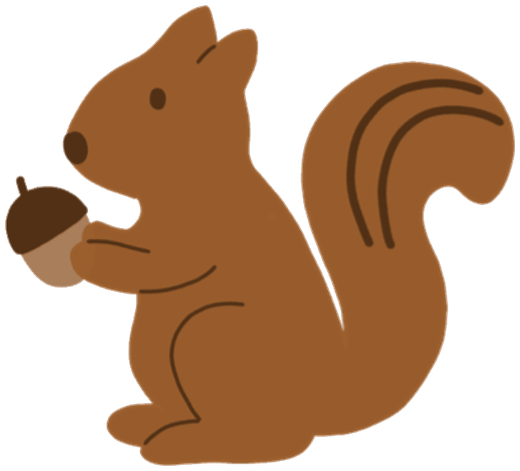
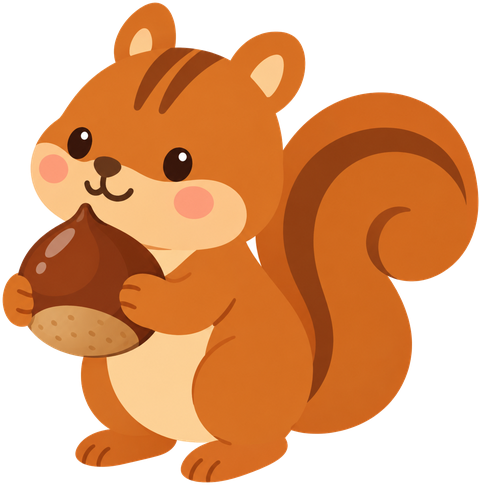
다람쥐 이미지 교체(크기 축소), 앱 색감을 밝은 크림 톤으로 복원

diff --git a/public/style.css b/public/style.css
@@ -1,18 +1,18 @@
 :root {
-  --bg: #1d1610;
-  --bg-2: #2a1f15;
-  --card: #2f2318;
-  --row: #3b2c1e;
-  --ink: #f8ecd9;
-  --muted: #bda78d;
-  --line: #4a3826;
-  --accent: #f2b84b;        /* 노란 도토리 빛 */
-  --accent-2: #d9822b;      /* 갈색 도토리 */
-  --on-accent: #2a1a0a;
-  --leaf: #6fbf73;
-  --danger: #f08a80;
-  --shadow: 0 14px 34px rgba(0, 0, 0, 0.35);
-  --glow: 0 6px 20px rgba(242, 184, 75, 0.35);
+  --bg: #faf6ef;
+  --card: #ffffff;
+  --row: #fbf1e2;
+  --field: #fbf6ec;
+  --ink: #3a2f27;
+  --muted: #6f6254;
+  --line: #ece3d6;
+  --accent: #c9752e;        /* 도토리 갈색 (채움) */
+  --accent-ink: #a85f1f;    /* 도토리 갈색 (글자) */
+  --accent-soft: #f6e7d6;
+  --leaf: #4c9a5a;
+  --danger: #b83b36;
+  --shadow: 0 6px 22px rgba(120, 90, 50, 0.10);
+  --glow: 0 6px 16px rgba(201, 117, 46, 0.30);
 }
 
 * { box-sizing: border-box; }
@@ -20,7 +20,7 @@
 body {
   margin: 0;
   font-family: "Pretendard", "Apple SD Gothic Neo", "Malgun Gothic", system-ui, sans-serif;
-  background: radial-gradient(1100px 600px at 80% -10%, #3a2a1a 0%, var(--bg) 60%) fixed, var(--bg);
+  background: var(--bg);
   color: var(--ink);
   line-height: 1.5;
 }
@@ -43,7 +43,8 @@ main {
 
 .card {
   background: var(--card);
-  border-radius: 28px;
+  border: 1px solid var(--line);
+  border-radius: 24px;
   padding: 22px;
   box-shadow: var(--shadow);
 }
@@ -55,19 +56,19 @@ main {
 
 /* ---------- 정원 ---------- */
 .garden { text-align: center; position: sticky; top: 18px; }
-.garden h2 { margin: 0 0 12px; font-size: 20px; color: var(--accent); }
+.garden h2 { margin: 0 0 12px; font-size: 20px; color: var(--accent-ink); }
 .scene {
   position: relative;
-  background: linear-gradient(#3a2d3f 0%, #5a3f3a 58%, #3f3123 58%, #3f3123 100%);
-  border-radius: 22px;
+  background: linear-gradient(#eaf6ff 0%, #eaf6ff 60%, #f3ead9 60%, #f3ead9 100%);
+  border-radius: 18px;
   overflow: hidden;
 }
 .scene svg { display: block; width: 100%; height: auto; }
 .squirrel {
   position: absolute;
-  right: 10px;
+  right: 12px;
   bottom: 6px;
-  width: 40%;
+  width: 32%;
   height: auto;
   transform-origin: 50% 100%;
   animation: bob 3.2s ease-in-out infinite;
@@ -81,93 +82,86 @@ main {
 }
 
 .acorn-count { margin-top: 16px; font-size: 15px; }
-.acorn-count strong { color: var(--accent); font-size: 20px; }
+.acorn-count strong { color: var(--accent-ink); font-size: 20px; }
 .acorn-count .month { color: var(--muted); font-size: 12px; }
 .acorns { font-size: 18px; margin: 8px 0; word-break: break-all; line-height: 1.7; }
 .progress .bar {
-  height: 8px; background: #43321f;
+  height: 8px; background: var(--accent-soft);
   border-radius: 99px; overflow: hidden; margin: 10px 0 8px;
 }
-.progress .fill {
-  height: 100%; border-radius: 99px;
-  background: linear-gradient(90deg, var(--accent-2), var(--accent));
-  box-shadow: 0 0 10px rgba(242, 184, 75, 0.5);
-  transition: width .4s;
-}
+.progress .fill { height: 100%; border-radius: 99px; background: var(--leaf); transition: width .4s; }
 .progress-label { font-size: 13px; color: var(--muted); }
 .today-status {
   margin-top: 14px; font-size: 13px; padding: 10px 14px;
-  background: var(--row); border-radius: 16px; color: var(--ink);
+  background: var(--accent-soft); border-radius: 14px; color: var(--ink);
 }
 
 /* ---------- 할 일 ---------- */
 #add-form input {
-  width: 100%; padding: 13px 16px; border: 1px solid transparent;
-  border-radius: 18px; font-size: 14px; background: var(--row); color: var(--ink);
+  width: 100%; padding: 13px 16px; border: 1px solid var(--line);
+  border-radius: 16px; font-size: 14px; background: var(--field); color: var(--ink);
   font-family: inherit;
 }
 #add-form input::placeholder { color: var(--muted); }
 #add-form input:focus { outline: none; border-color: var(--accent); }
-#add-form input[type="date"] { color-scheme: dark; }
 #add-form #title { margin-bottom: 10px; font-size: 16px; }
 #add-form .row { display: flex; gap: 8px; align-items: center; }
-#add-form .row input[type="date"] { flex: 0 1 150px; }
 #add-form .row input { flex: 1; min-width: 0; }
+#add-form .row input[type="date"] { flex: 0 1 150px; }
 #add-form .add-btn {
   flex: 0 0 auto; width: 48px; height: 48px; padding: 0; border: none; border-radius: 50%;
-  background: linear-gradient(135deg, var(--accent), var(--accent-2)); color: var(--on-accent);
+  background: var(--accent); color: #ffffff;
   font-size: 26px; line-height: 1; font-weight: 600; cursor: pointer; box-shadow: var(--glow);
 }
-#add-form .add-btn:hover { filter: brightness(1.08); }
+#add-form .add-btn:hover { filter: brightness(1.06); }
 #add-form .add-btn:focus-visible, .filters button:focus-visible, .todo button:focus-visible {
   outline: 2px solid var(--accent); outline-offset: 2px;
 }
 
 .filters { display: flex; gap: 8px; margin: 20px 0 14px; }
 .filters button {
-  padding: 8px 16px; border: none; background: var(--row);
+  padding: 8px 16px; border: none; background: #f3ebde;
   border-radius: 99px; cursor: pointer; font-size: 13px; color: var(--muted); font-family: inherit;
 }
-.filters button.active { background: var(--accent); color: var(--on-accent); font-weight: 600; }
+.filters button.active { background: var(--accent); color: #ffffff; font-weight: 700; }
 
 #todo-list { list-style: none; margin: 0; padding: 0; display: flex; flex-direction: column; gap: 10px; }
 .todo {
   display: flex; align-items: center; gap: 10px; flex-wrap: wrap;
   padding: 14px 16px; background: var(--row); border-radius: 20px;
-  box-shadow: 0 4px 14px rgba(0, 0, 0, 0.22);
 }
 .todo .check { display: flex; align-items: center; gap: 12px; flex: 1; min-width: 160px; cursor: pointer; }
 .todo .check input {
   appearance: none; -webkit-appearance: none; flex: 0 0 auto;
   width: 24px; height: 24px; margin: 0; cursor: pointer;
-  border: 2px solid var(--accent-2); border-radius: 50%; background: transparent;
+  border: 2px solid var(--accent); border-radius: 50%; background: transparent;
   display: grid; place-content: center;
 }
 .todo .check input::after {
-  content: "✓"; font-size: 14px; font-weight: 700; color: var(--on-accent);
+  content: "✓"; font-size: 14px; font-weight: 700; color: #ffffff;
   transform: scale(0); transition: transform .15s;
 }
-.todo .check input:checked { background: var(--accent); border-color: var(--accent); }
+.todo .check input:checked { background: var(--accent); }
 .todo .check input:checked::after { transform: scale(1); }
 .todo .check input:focus-visible { outline: 2px solid var(--accent); outline-offset: 3px; }
 .todo .title { font-size: 15px; }
 .todo.done .title { text-decoration: line-through; color: var(--muted); }
 .todo .meta { display: flex; gap: 6px; flex-wrap: wrap; }
 .chip {
-  background: #4d3a24; color: #f3d9a4; font-size: 12px;
+  background: #f1e6d3; color: #6b4a1f; font-size: 12px;
   padding: 3px 10px; border-radius: 99px;
 }
-.due { font-size: 12px; padding: 3px 10px; border-radius: 99px; background: #4a3b2c; color: var(--muted); }
-.due.today { background: #5a4421; color: var(--accent); }
-.due.overdue { background: #5c2f2a; color: var(--danger); font-weight: 600; }
-.tiny-badge { font-size: 12px; padding: 3px 10px; border-radius: 99px; background: #2f4a2f; color: #b5e3b0; }
+.due { font-size: 12px; padding: 3px 10px; border-radius: 99px; background: #f0efe9; color: var(--muted); }
+.due.today { background: #fff0cf; color: #7a5412; }
+.due.overdue { background: #fde2e1; color: var(--danger); font-weight: 600; }
+.tiny-badge { font-size: 12px; padding: 3px 10px; border-radius: 99px; background: #e3f2e5; color: #2f6b3b; }
 
 .todo .actions { display: flex; gap: 6px; margin-left: auto; }
 .todo .actions button {
-  border: none; background: #4d3a26; color: var(--ink); cursor: pointer;
+  border: none; background: #f3e7d4; color: var(--ink); cursor: pointer;
   padding: 6px 12px; border-radius: 99px; font-size: 12px; font-family: inherit;
 }
-.todo .actions button:hover { background: #5c4630; }
+.todo .actions button:hover { background: #ecdcc2; }
 .todo .actions .danger { color: var(--danger); }
 
 .empty { text-align: center; color: var(--muted); padding: 30px 0; font-size: 14px; }
@@ -179,5 +173,5 @@ main {
   padding: 7px 14px; border-radius: 99px; border: 1px solid var(--line);
   background: transparent; color: var(--ink); cursor: pointer; font-size: 13px; font-family: inherit;
 }
-.todo .suggest button[data-pick] { border-color: var(--accent-2); }
-.todo .suggest button:hover { background: #4d3a26; }
+.todo .suggest button[data-pick] { border-color: var(--accent); background: #ffffff; }
+.todo .suggest button:hover { background: #f3e7d4; }

diff --git a/public/index.html b/public/index.html
@@ -3,7 +3,7 @@
 <head>
   <meta charset="UTF-8" />
   <meta name="viewport" content="width=device-width, initial-scale=1.0" />
-  <meta name="color-scheme" content="dark" />
+  <meta name="color-scheme" content="light" />
   <title>🌰 다람쥐 정원</title>
   <link rel="stylesheet" href="style.css" />
 </head>
